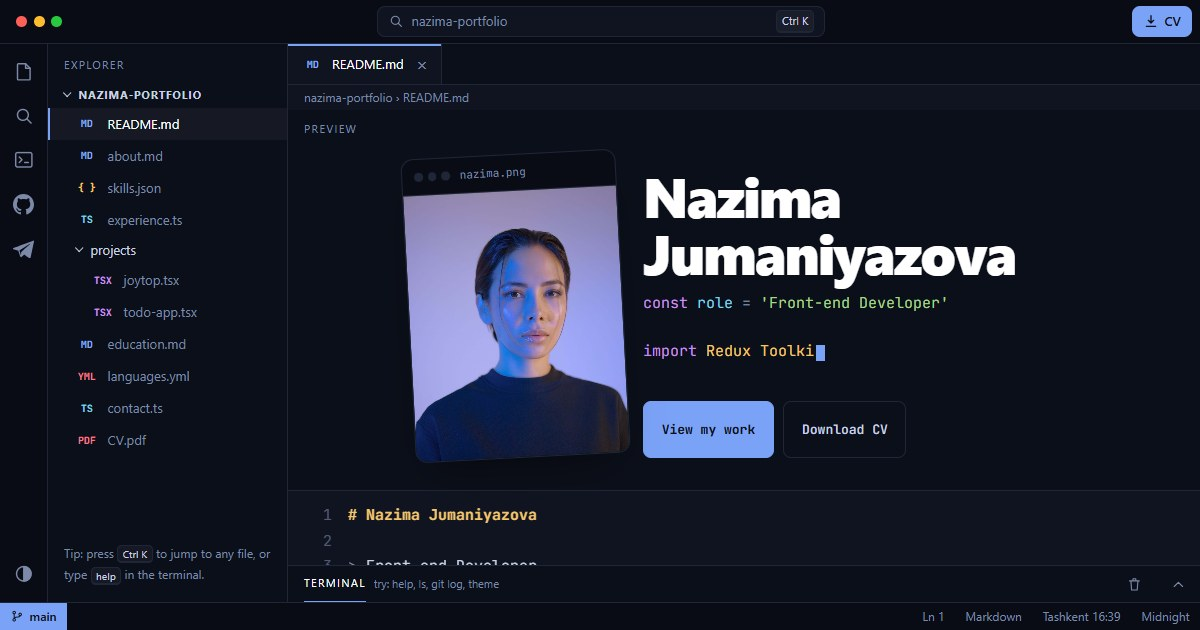
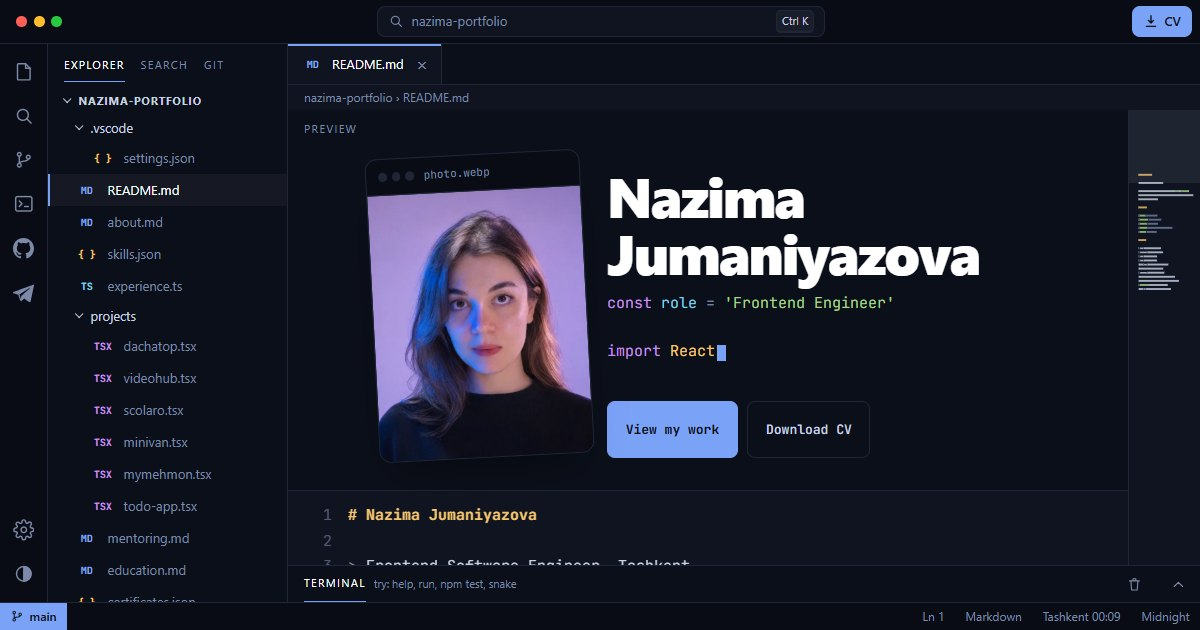
feat: use the new portrait and refresh the link preview image
The README preview shows the new photo as a 640x800 WebP (40 KB). og-image.jpg is a fresh screenshot of the site. The full-size source stays out of git.

diff --git a/index.html b/index.html
@@ -492,12 +492,12 @@
                   <div class="window hero-card__photo">
                     <div class="window__bar" aria-hidden="true">
                       <span class="window__dots"><i></i><i></i><i></i></span
-                      ><span class="window__title">nazima.png</span>
+                      ><span class="window__title">photo.webp</span>
                     </div>
                     <img
-                      src="./src/img/download.png"
-                      width="798"
-                      height="984"
+                      src="./src/img/nazima.webp"
+                      width="640"
+                      height="800"
                       alt="Portrait of Nazima Jumaniyazova"
                     />
                   </div>
